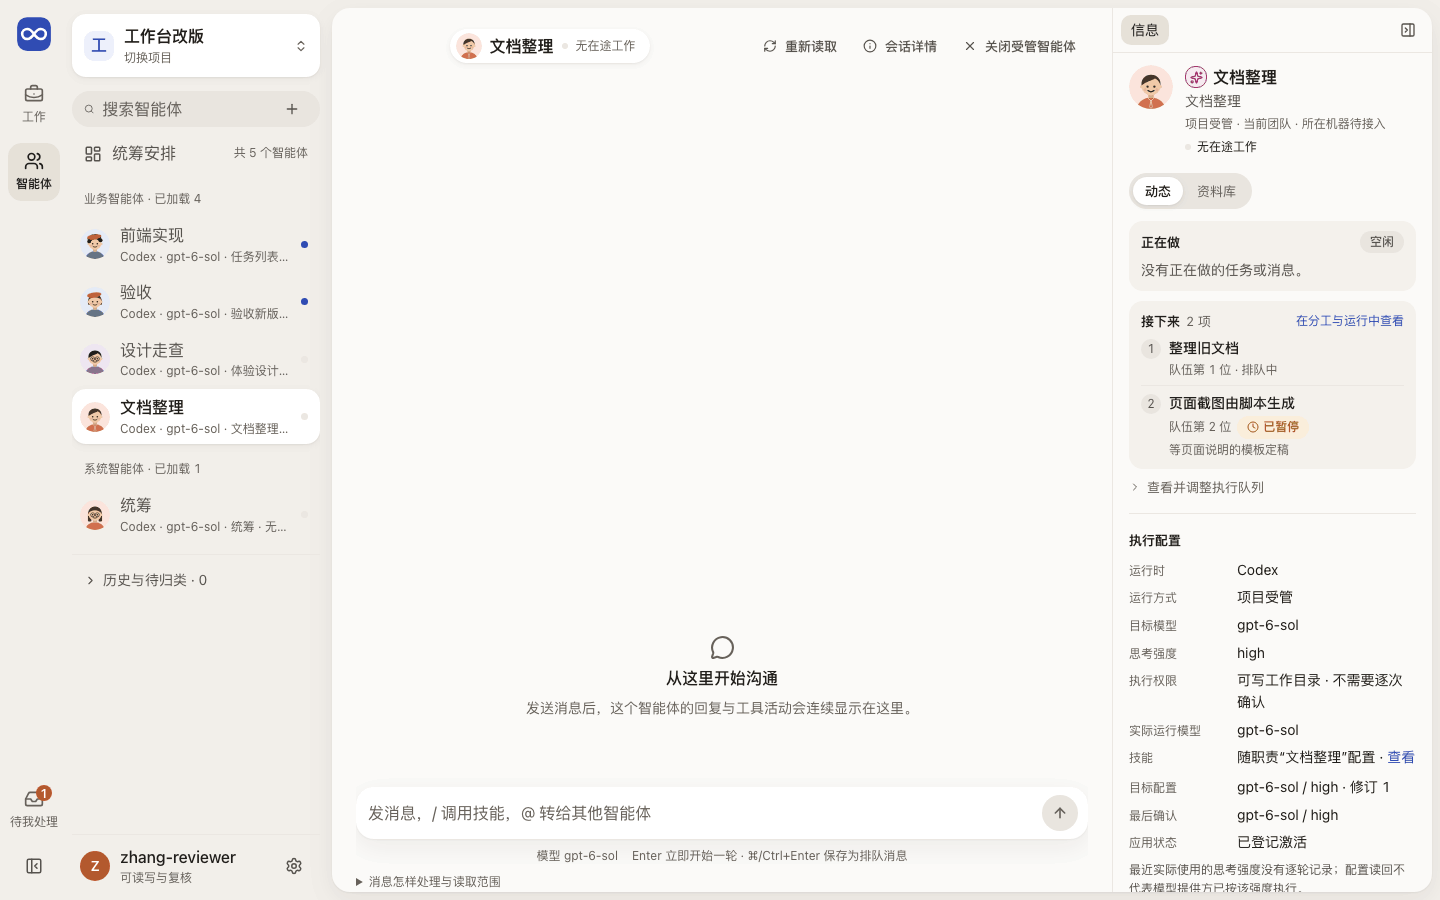
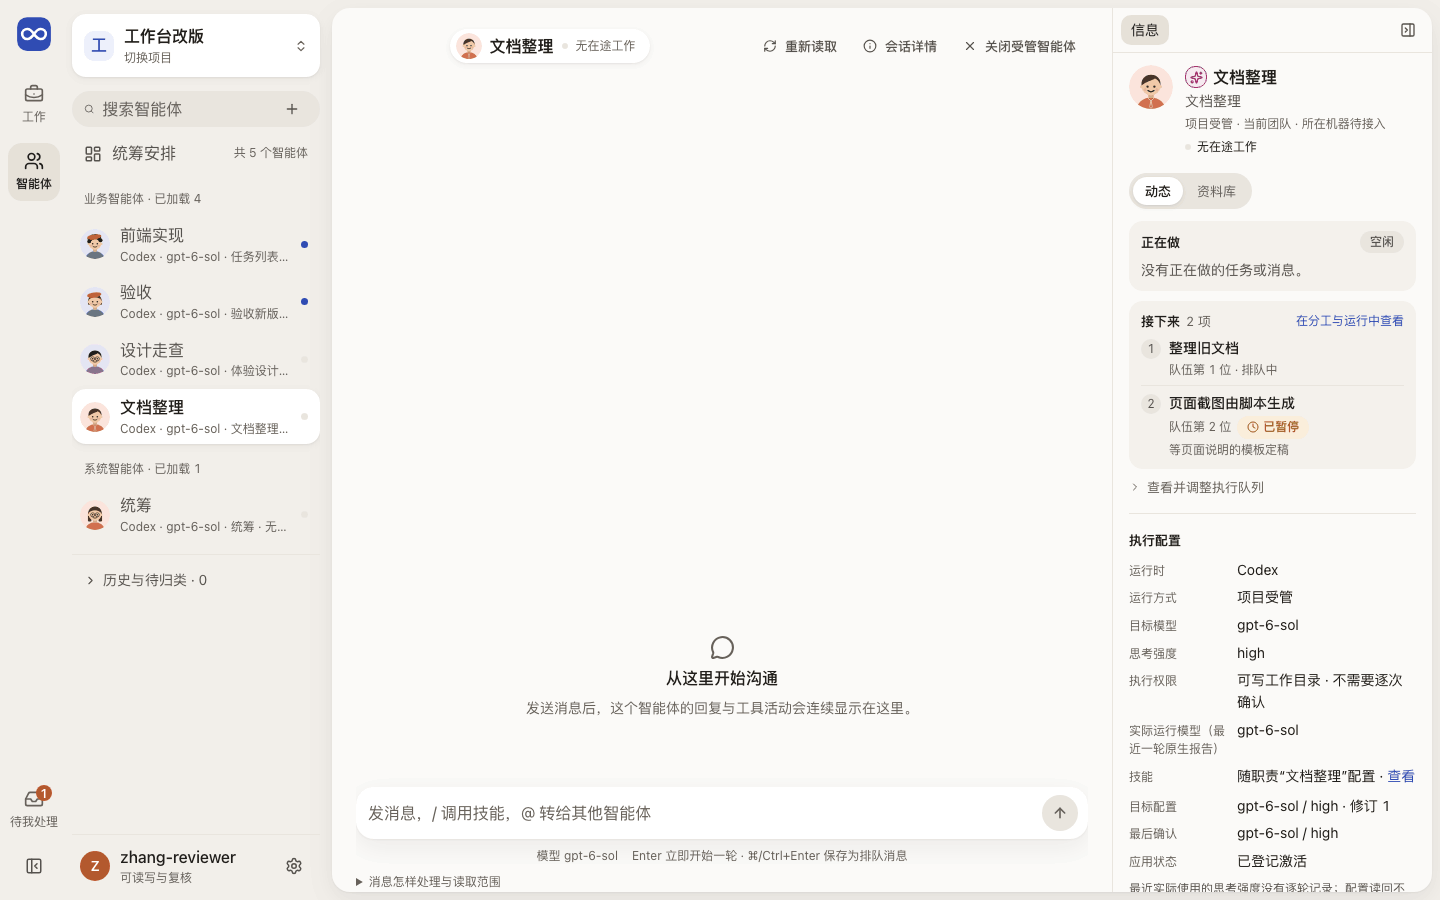
fix(workbench): 智能体页的模型目录读取挪到提前返回之前，修复打开即崩
#386 把 modelCatalog 的 useProjectQuery 放在 `if (!snapshot) return` 之后：快照读回后 hook 数量变多，
React 报 #310，智能体页每次首次打开都显示“这一页显示出错”。挪到提前返回之前；新增
session-workspace-hooks 单元检查（CI 会跑）确保提前返回之后没有 hook。
变基到含 #386 的 main 后，“目标模型 / 实际运行模型（最近一轮原生报告）”按 #386 的写法放在“执行配置”里；
重新生成 agent 与 agent-queued 截图。

Changed region(s): [[0.7812, 0.8089, 1.0, 0.9956]]

diff --git a/apps/workbench/src/features/sessions/SessionWorkspace.tsx b/apps/workbench/src/features/sessions/SessionWorkspace.tsx
@@ -286,6 +286,9 @@ export function SessionWorkspace({ context, sessionKey, active, refresh, queue }
   const titleOf = (taskId: string) => knownTitles.get(taskId) ?? taskFacts.data?.[taskId]?.title ?? null;
   const phaseOf = (taskId: string) => taskFacts.data?.[taskId]?.phase ?? null;
 
+  // Every hook runs before the early return below (a hook after it changes the hook count once the snapshot arrives).
+  // The catalog's display names (Codex) in front of the exact IDs; a catalog that cannot be read leaves the IDs as they are.
+  const modelCatalog = useProjectQuery(projectId, ["runtime", "models", "catalog"], signal => sessionClient("", projectId).models(signal), { enabled: active && owned, retry: false }).data?.options ?? null;
   // An explicit reread holds answers and closing until it is back; background polls do not interrupt a form being filled.
   const [rereading, setRereading] = useState(false);
   const reread = () => {
@@ -356,8 +359,6 @@ export function SessionWorkspace({ context, sessionKey, active, refresh, queue }
   const executionProfile = recoveryRead.status === "ready" ? recoveryRead.view.executionProfile : null;
   const configuredModel = executionProfile?.revision.model ?? current.resources.configuredModel.value;
   const actualModel = current.resources.actualModel.value;
-  // The catalog's display names (Codex) in front of the exact IDs; a catalog that cannot be read leaves the IDs as they are.
-  const modelCatalog = useProjectQuery(projectId, ["runtime", "models", "catalog"], signal => sessionClient("", projectId).models(signal), { enabled: active && owned, retry: false }).data?.options ?? null;
   const busyNow = session.busy === true;
   const waitingTurnIds = new Set(native.questions.filter(question => question.state === "pending" && question.turnId).map(question => question.turnId!));
   const activity = [...historyPages.flatMap(page => page.items), ...current.activity].filter((item, index, all) => all.findIndex(other => other.id === item.id) === index)

diff --git a/apps/workbench/test/session-workspace-hooks.test.ts b/apps/workbench/test/session-workspace-hooks.test.ts
@@ -1,0 +1,18 @@
+// The agent page returns early until its snapshot is read. A hook called after that return runs only once the snapshot
+// arrives, so React sees more hooks than on the first render and the whole page fails (React error #310: “这一页显示出错”).
+// Browser regressions are not part of CI, so this reads the source: every hook of SessionWorkspace sits above the return.
+import assert from "node:assert/strict";
+import { readFileSync } from "node:fs";
+import { resolve } from "node:path";
+import { test } from "node:test";
+
+test("SessionWorkspace calls every hook before it returns early for a missing snapshot", () => {
+  const source = readFileSync(resolve(import.meta.dirname, "../src/features/sessions/SessionWorkspace.tsx"), "utf8");
+  const start = source.indexOf("export function SessionWorkspace(");
+  const early = source.indexOf("if (!snapshot) return", start);
+  const end = source.indexOf("\n}\n", early);
+  assert.ok(start >= 0 && early > start && end > early, "the component, its early return and its end are found");
+  const after = source.slice(early, end).split("\n").map((line, index) => [index, line] as const)
+    .filter(([, line]) => /\buse[A-Z]\w*\(/.test(line));
+  assert.deepEqual(after, [], "no hook after the early return");
+});
